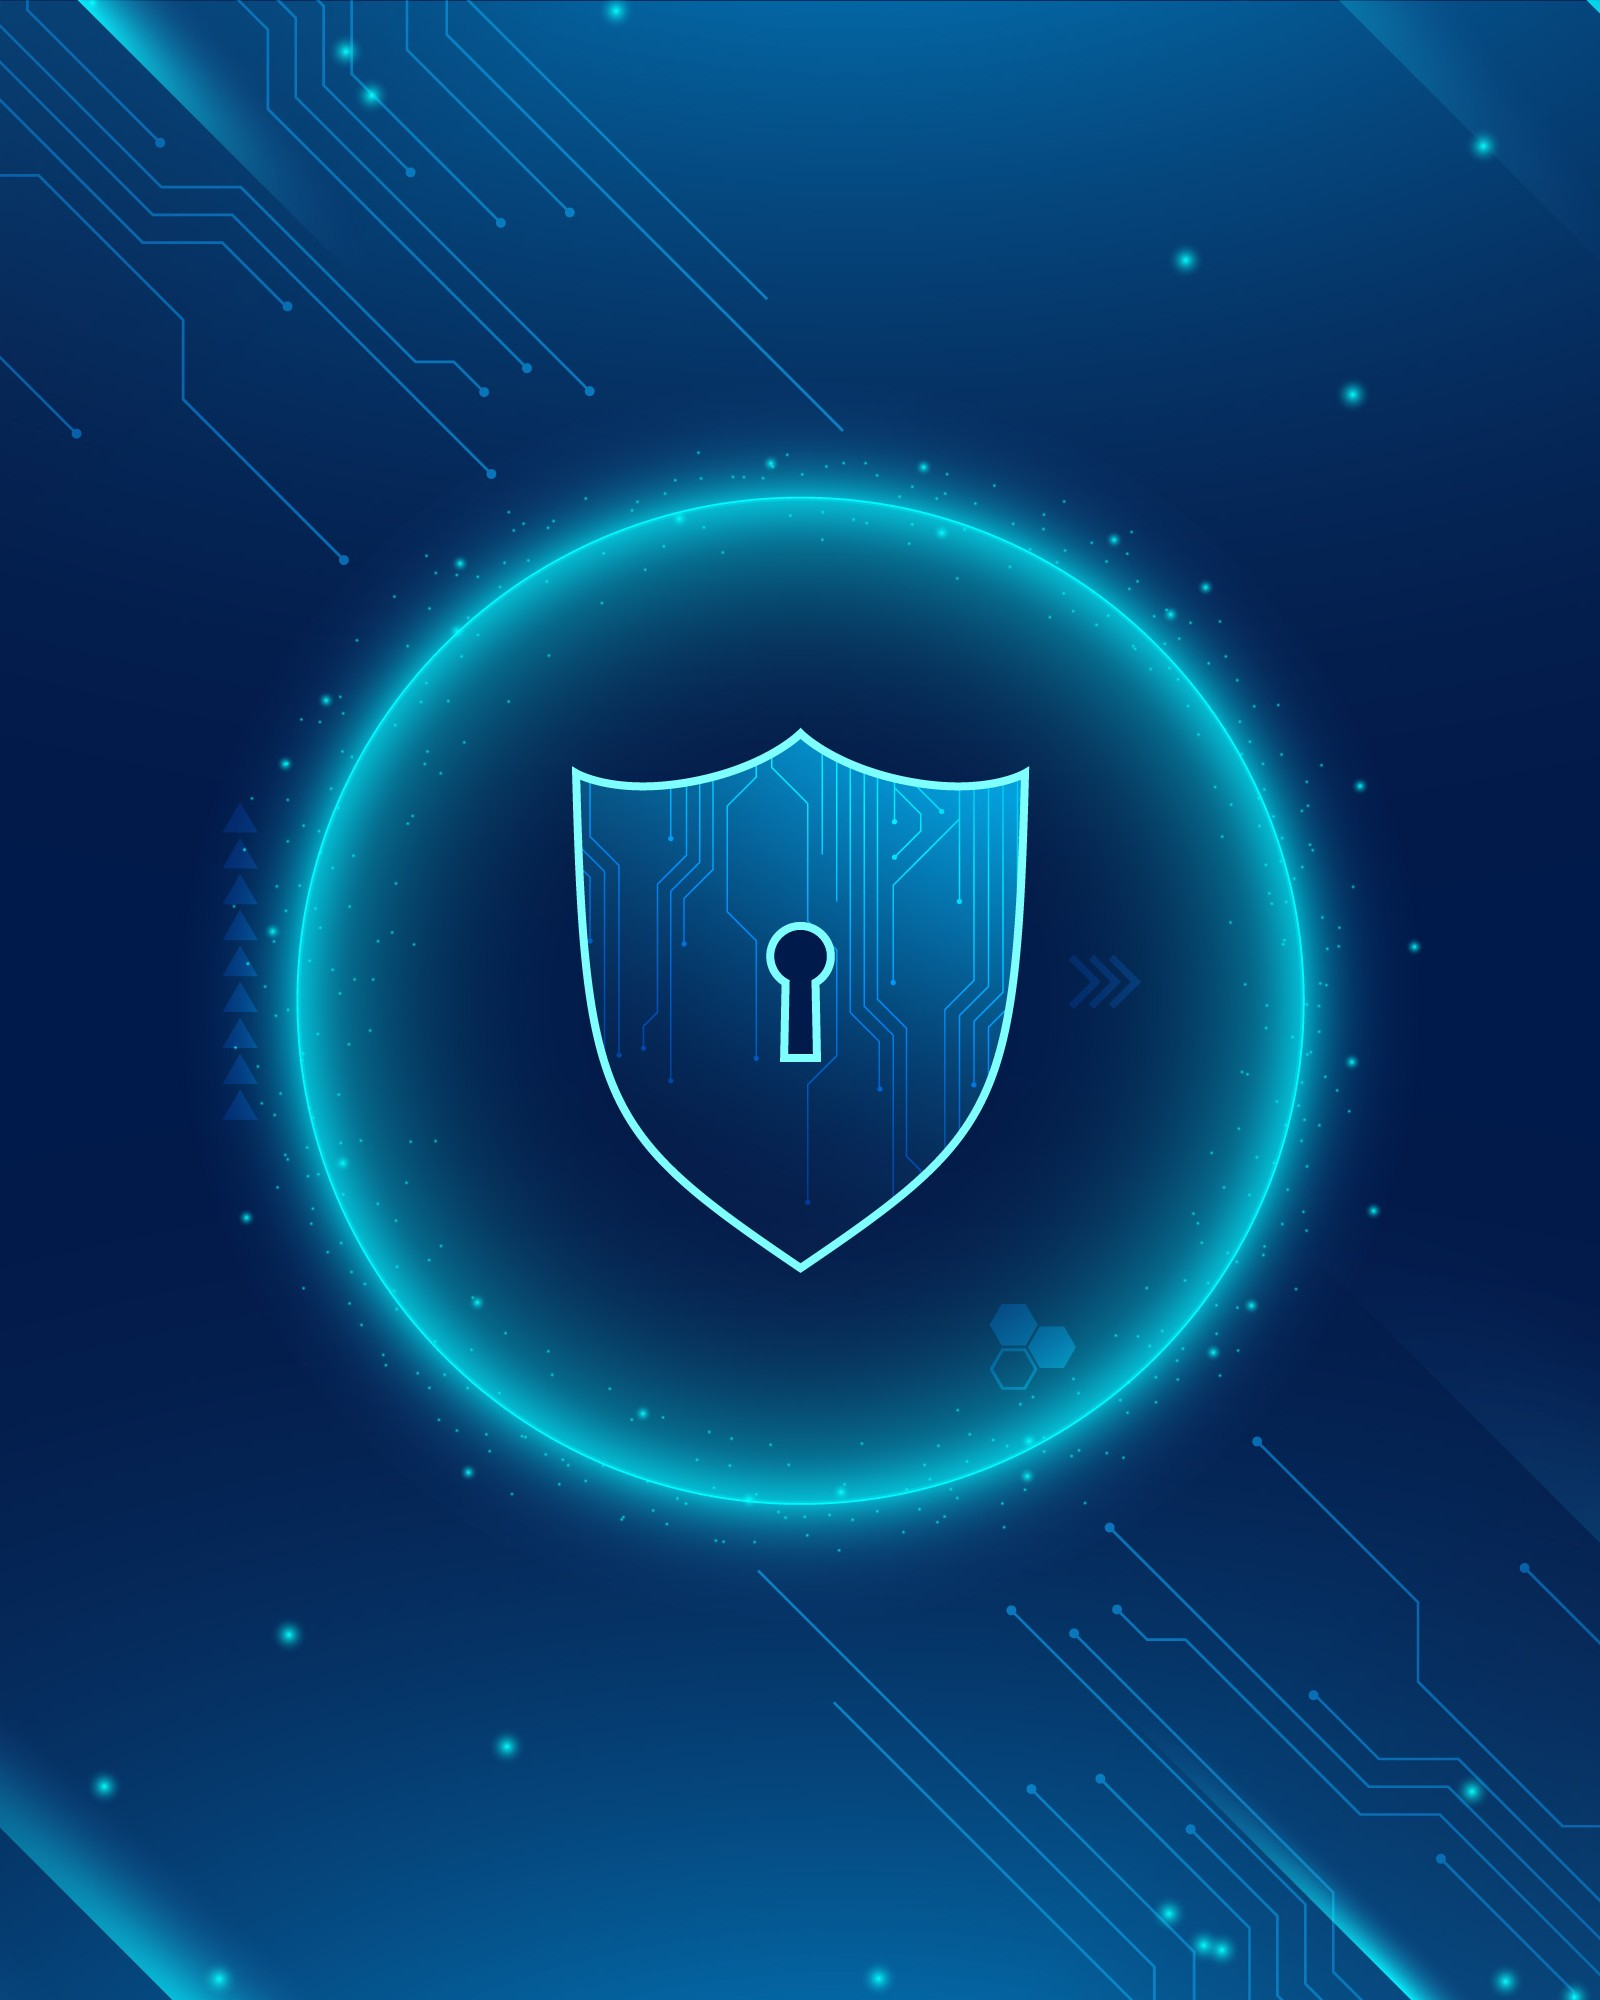
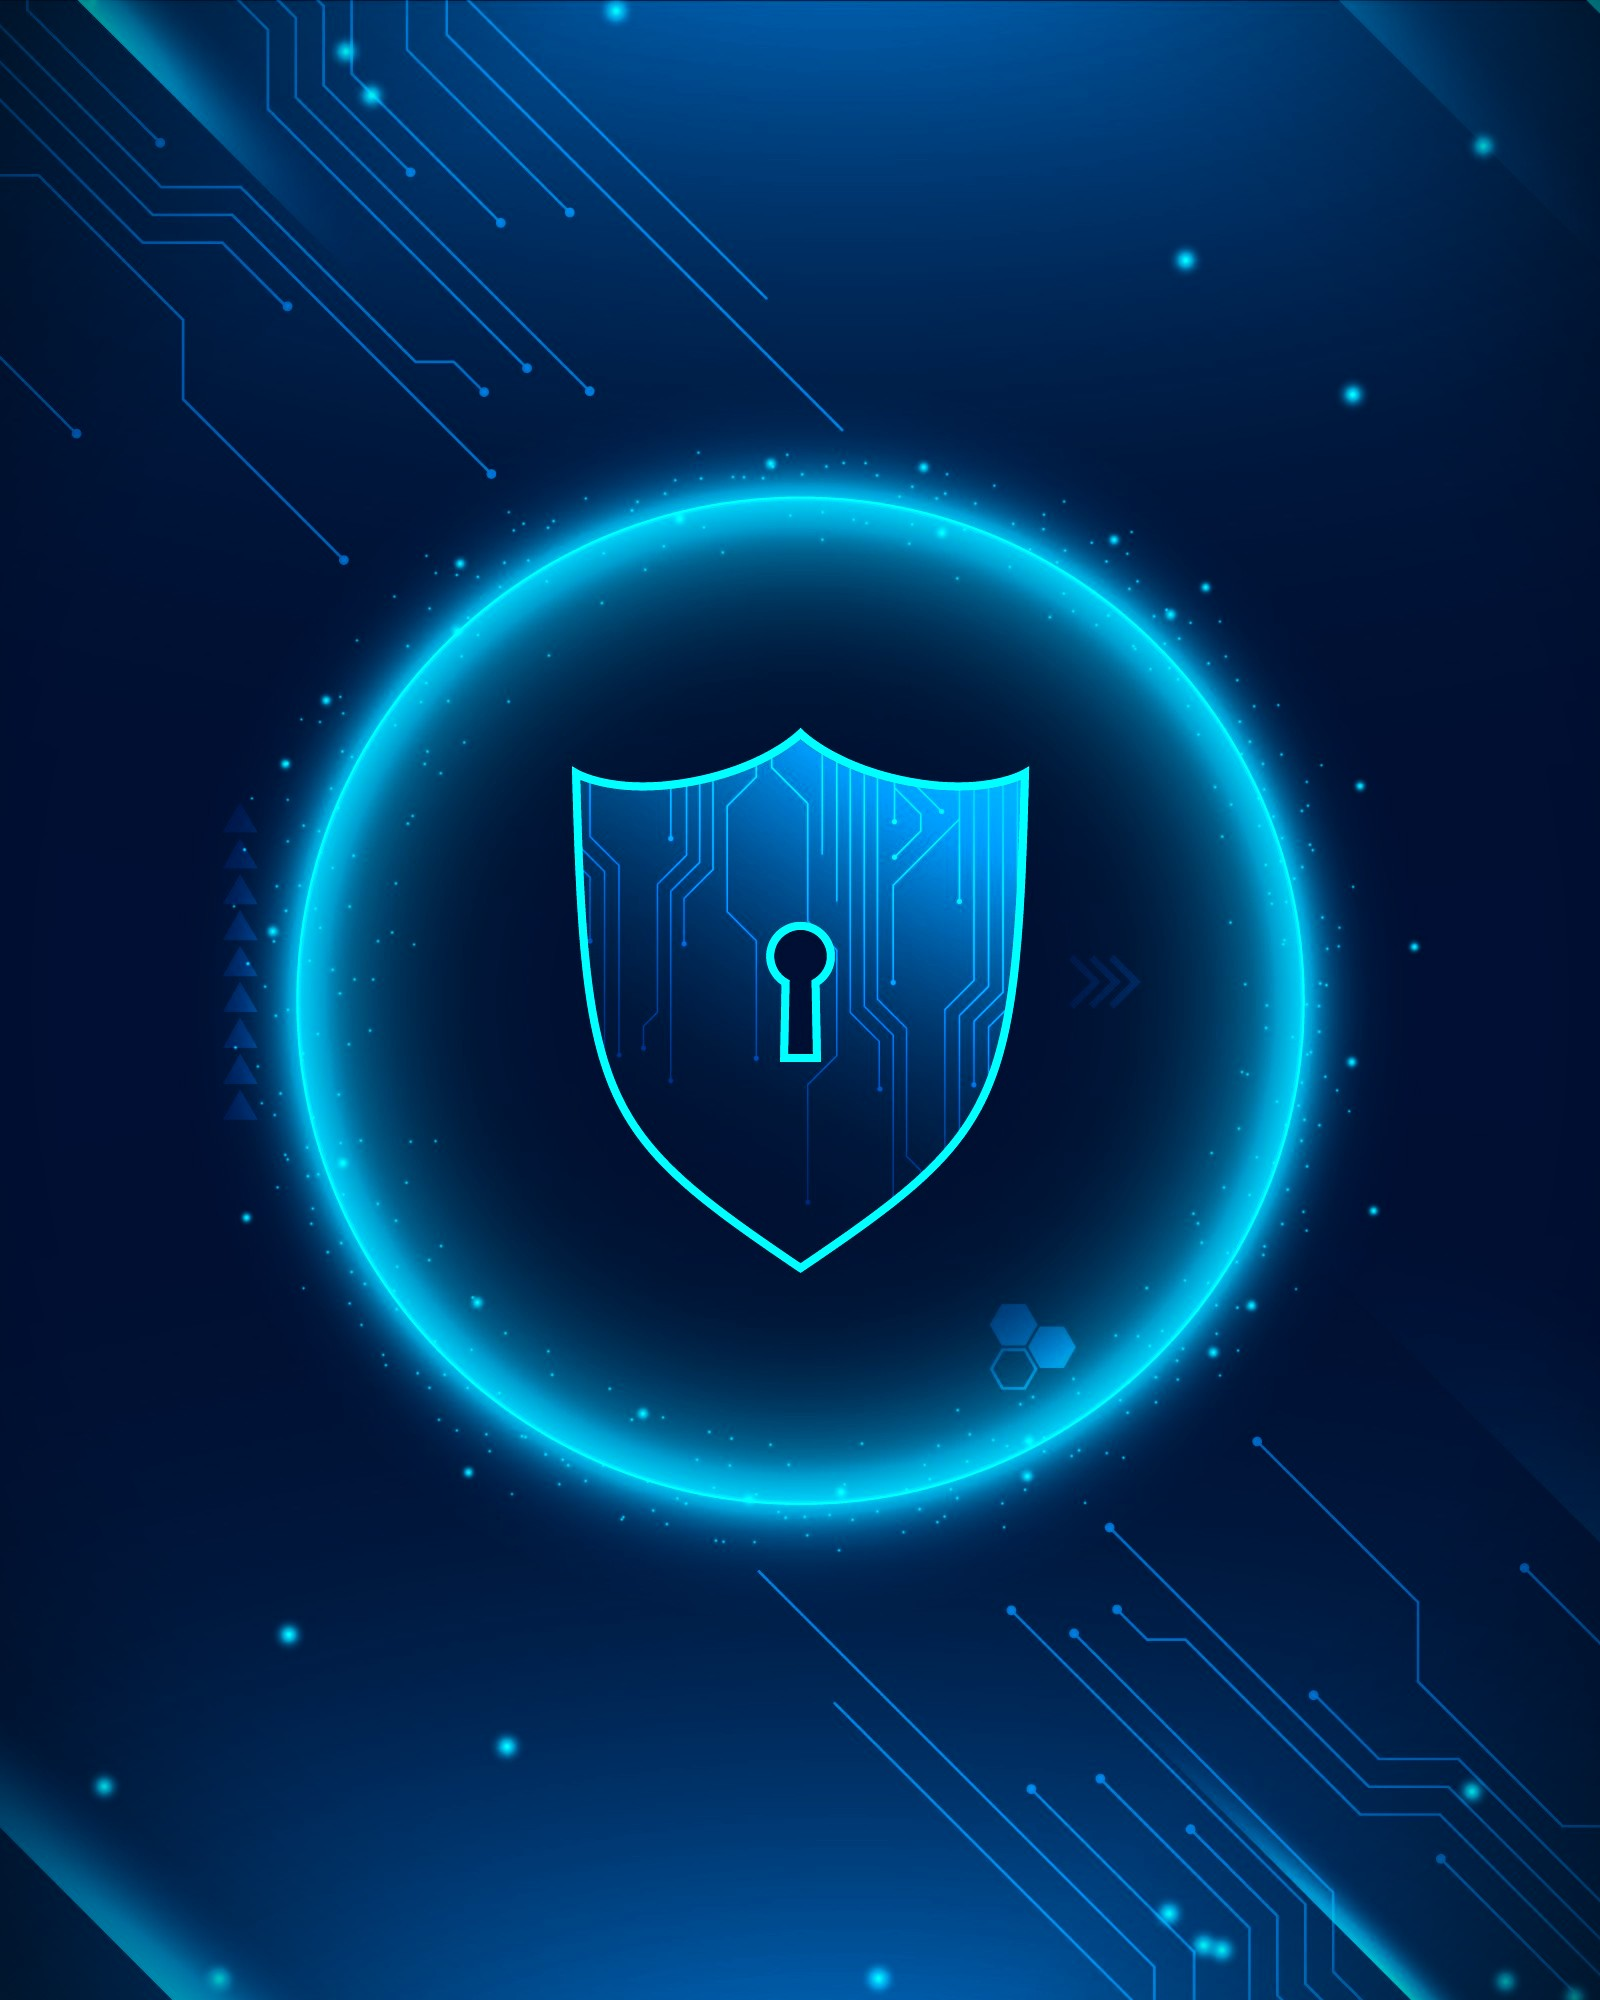
rebuild add credentials

diff --git a/frontend/src/components/AddCredentials/AddCredentials.jsx b/frontend/src/components/AddCredentials/AddCredentials.jsx
@@ -6,10 +6,26 @@ import { useSnackbar } from 'notistack';
 import axios from 'axios';
 import loader from '../../assets/images/loader.gif';
 
+
+import { Button, Box } from '@mui/material';
+import loginIcon from '../../assets/images/form.png';
+
+import VisibilityIcon from '@mui/icons-material/Visibility';
+import VisibilityOffIcon from '@mui/icons-material/VisibilityOff';
+import submitIcon from '../../assets/images/login.png';
+ import '../Login1/Login.css'
+ import lock from '../../assets/images/pc.jpg';
+ import '../Login1/Login.css'
+
+
+
 const AddCredentials = () => {
   const [category, setCategory] = useState('');
   const [websites, setWebsites] = useState([{ name: '', password: '' }]);
   const [loading, setLoading] = useState(false);
+   const [websiteName, setWebsiteName] = useState('');
+    const [password, setPassword] = useState('');
+    const [showPassword, setShowPassword] = useState(false);
 
   const navigate = useNavigate();
   const { enqueueSnackbar } = useSnackbar();
@@ -64,59 +80,107 @@ const AddCredentials = () => {
         <KeyboardBackspaceIcon />
       </button>
 
-      <div id="add-credentials-box">
-        <h1>Add Credentials</h1>
-        <form onSubmit={handleSubmit}>
-          {/* Category */}
-          <div className="form-group">
-            <label htmlFor="category">Category:</label>
-            <input
-              id="category"
-              type="text"
-              value={category}
-              onChange={(e) => setCategory(e.target.value)}
-              required
-            />
-          </div>
+     
+    <div id="login-container" >
 
-          {/* Websites with passwords */}
-          <div className="form-group">
-            <label>Websites & Passwords:</label>
-            {websites.map((site, index) => (
-              <div key={index} className="website-row">
-                <input
-                  type="text"
-                  value={site.name}
-                  placeholder="Website or company name"
-                  onChange={(e) => handleWebsiteChange(index, 'name', e.target.value)}
-                  required
-                />
-                <input
-                  type="text"
-                  value={site.password}
-                  placeholder="Password"
-                  onChange={(e) => handleWebsiteChange(index, 'password', e.target.value)}
-                  required
-                />
-                {websites.length > 1 && (
-                  <button type="button" className="btn-remove" onClick={() => removeWebsiteField(index)}>
-                    ✕
-                  </button>
-                )}
-              </div>
-            ))}
-            <button type="button" className="btn-add" onClick={addWebsiteField}>
-              + Add website
-            </button>
-          </div>
+      <div id="login-box">
+              
+      
+              <img id="login-icon" src={loginIcon} alt="" />
+      
+              {/* make the box LTR */}
+              <Box dir="ltr">
+                <form onSubmit={handleSubmit} className="form-box">
+      
+                  {/* USERNAME INPUT - uses left-side person icon */}
+                  <div className="input-container username">
+                    <input
+                      required
+                      className="input"
+                      type="text"
+                      name="username"
+                      id="username-field"
+                      placeholder="Category"
+                      onFocus={(e) => (e.target.placeholder = '')}
+                      onBlur={(e) => (e.target.placeholder = 'Category')}
+                      value={category}
+                      onChange={(e) => setCategory(e.target.value)}
+                    />
+                    <label className="usernameLabel" htmlFor="username-field">Category</label>
+      
+                    <svg viewBox="0 0 448 512" className="userIcon" aria-hidden>
+                      <path d="M224 256A128 128 0 1 0 224 0a128 128 0 1 0 0 256zm-45.7 48C79.8 304 0 383.8 0 482.3C0 498.7 13.3 512 29.7 512H418.3c16.4 0 29.7-13.3 29.7-29.7C448 383.8 368.2 304 269.7 304H178.3z"></path>
+                    </svg>
+                  </div>
 
-          <button type="submit" className="btn-secondary">
-            Submit
-          </button>
-        </form>
+                 <div className="websites-list">
+  {websites.map((item, index) => (
+    <div className="website-row" key={index}>
+      
+      {/* Website name */}
+      <div className="input-container username">
+        <input
+          required
+          className="input"
+          type="text"
+          placeholder="Website name"
+          value={item.name}
+          onChange={(e) => handleWebsiteChange(index, "name", e.target.value)}
+        />
+        <label className="usernameLabel">Website name</label>
       </div>
 
-      {loading && <img src={loader} id="loader" alt="Loading..." />}
+      {/* Password */}
+      <div className="input-container password">
+        <input
+          required
+          className="input"
+          type="password"
+          placeholder="Password"
+          value={item.password}
+          onChange={(e) => handleWebsiteChange(index, "password", e.target.value)}
+        />
+        <label className="password-label">Password</label>
+      </div>
+
+      {/* Add / Remove buttons */}
+      <div className="website-buttons">
+        <button
+          type="button"
+          className="add-btn"
+          onClick={addWebsiteField}
+        >
+          +
+        </button>
+
+        {websites.length > 1 && (
+          <button
+            type="button"
+            className="remove-btn"
+            onClick={() => removeWebsiteField(index)}
+          >
+            -
+          </button>
+        )}
+      </div>
+
+    </div>
+  ))}
+</div>
+
+
+      
+                  <Button className="submit-btn" type="submit">
+                    <span className="btn-text">Submit</span>
+                    <img id="submit-icon" src={submitIcon} alt="icon" />
+                  </Button>
+                </form>
+              </Box>
+               
+              </div>
+              <img id="lock" src={lock} alt="" />
+              </div>
+              
     </div>
   );
 };

diff --git a/frontend/src/components/AddCredentials/AddCredentials.css b/frontend/src/components/AddCredentials/AddCredentials.css
@@ -5,6 +5,15 @@
   flex-direction: column;
   align-items: center;
 }
+#add-credentials .form-box{
+align-items:flex-start;
+}
+#add-credentials .submit-btn{
+align-self: center;
+}
+#add-credentials .input-container{
+margin-right: 15px;
+}
 #add-credentials-box{
   min-width: 600px;
   width: fit-content;
@@ -76,6 +85,45 @@ display:inline;
   border-radius: 6px;
   cursor: pointer;
 }
+
+
+
+.website-row {
+  display: flex;
+  align-items: center;
+  gap: 12px;
+  margin-bottom: 12px;
+}
+
+.website-buttons {
+  display: flex;
+  flex-direction: column;
+  gap: 6px;
+}
+
+.add-btn,
+.remove-btn {
+  width: 32px;
+  height: 32px;
+  border-radius: 50%;
+  border: none;
+  font-size: 20px;
+  cursor: pointer;
+  font-weight: bold;
+  line-height: 32px;
+  text-align: center;
+}
+
+.add-btn {
+  background-color: #4caf50;
+  color: white;
+}
+
+.remove-btn {
+  background-color: #f44336;
+  color: white;
+}
+
 
 @media (max-width: 768px) {
   #add-credentials-box{

diff --git a/frontend/src/components/TwoFactorAuthentication/TwoFactorAuthentication.jsx b/frontend/src/components/TwoFactorAuthentication/TwoFactorAuthentication.jsx
@@ -2,6 +2,8 @@ import React, { useEffect, useRef, useState } from "react";
 import "./TwoFactorAuthentication.css";
 import { useNavigate } from 'react-router-dom';
 import { Button, Box } from '@mui/material';
+import { useSnackbar } from 'notistack';
+
 
 
 const TwoFactorAuthentication= () => {
@@ -10,6 +12,8 @@ const TwoFactorAuthentication= () => {
   const inputRefs = useRef([]);
   const [code, setCode] = useState(["", "", "", "", "", ""]);
   const navigate = useNavigate();
+      const { enqueueSnackbar } = useSnackbar();
+  
 
   // Simulate sending code
   const handleSend = () => {
@@ -24,7 +28,8 @@ const TwoFactorAuthentication= () => {
       navigate('/home-page');
     window.location.reload();
     } else {
-      console.log(" wrong");
+        enqueueSnackbar('That doesn’t seem correct. Want to try again?', { variant: 'error' });
+
     }
   };
 

diff --git a/frontend/src/components/Login1/Login.css b/frontend/src/components/Login1/Login.css
@@ -75,6 +75,7 @@ background: url(../../assets//images/b.jpg) no-repeat center center/cover !impor
 /* justify-content: center;
 align-items:center;
 flex-direction: column; */
+
     box-shadow: #0b2a5d 0px 30px 30px -20px;
     transition: all 0.3s ease-in-out;
 
@@ -85,7 +86,7 @@ flex-direction: column; */
     justify-content: center;
 align-items:center;
 flex-direction: column;
-
+width: fit-content !important;
 }
 #lock{
   height: 100%;
